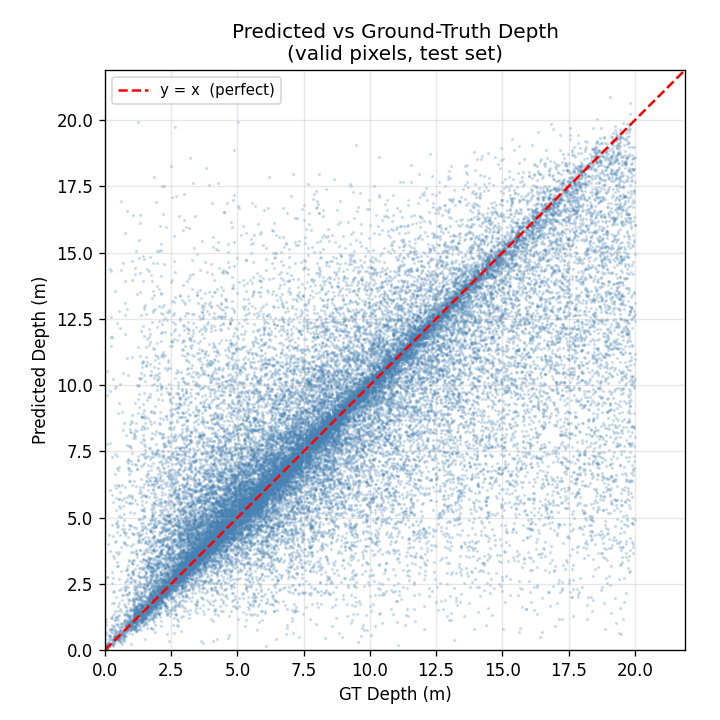
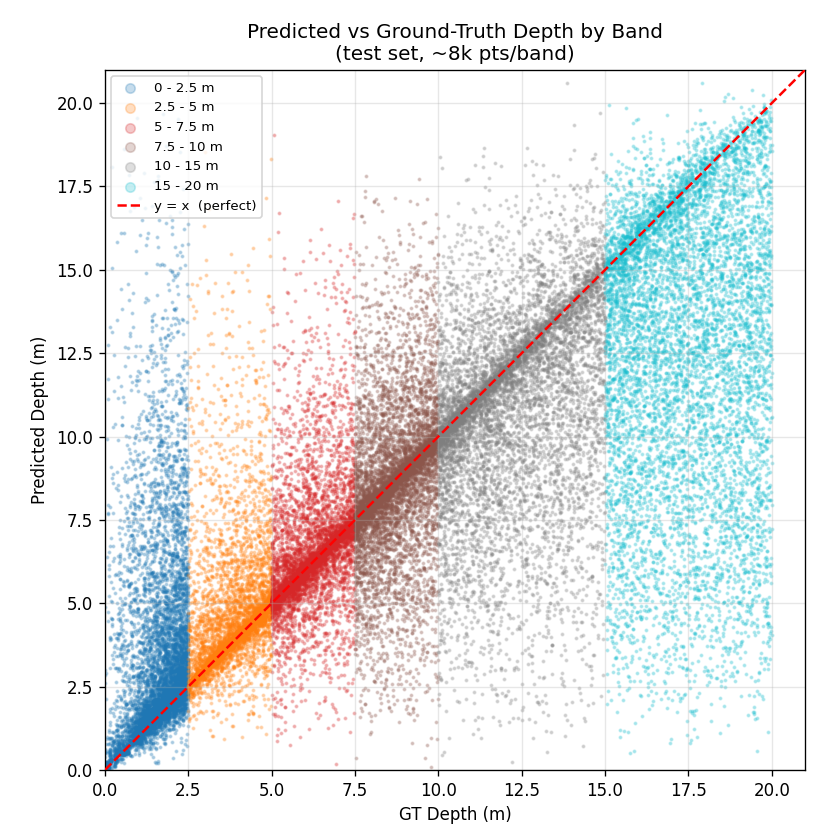
improve scatter plot, evaluate formatting, and fix end-of-training plots to use best.pth
- plot_scatter: add per-band coloured scatter (shared axes, 8k pts/band)
- evaluate.py: replace plain print with unicode box-drawing table
- train.py: reload best.pth before generating end-of-training scatter/histogram

diff --git a/perception/plot.py b/perception/plot.py
@@ -145,46 +145,104 @@ def plot_qualitative(model, test_loader, device, epoch, out_dir, n_samples=4, th
     plt.close(fig)
 
 
-def plot_scatter(model, test_loader, device, out_dir, thresh=0.99):
+def plot_scatter(model, test_loader, device, out_dir, thresh=0.99, bands=None):
     """
-    PLOT 3 — Scatter: predicted depth vs ground-truth depth (all valid pixels).
+    PLOT 3 — Scatter: predicted depth vs ground-truth depth.
+
+    If bands is None: single monochrome scatter (all valid pixels, capped at 50k).
+    If bands is provided (list of (label, lo, hi) in normalised units):
+      single scatter with each band coloured differently (8k pixels per band),
+      showing the full depth range on one axis so cross-band bias is visible.
 
     Perfect predictor → all points on red dashed y=x line.
-    Systematic bias:
-      Points above y=x → model over-estimates distance
-      Points below y=x → model under-estimates distance
-    Clustering of errors at specific depth ranges reveals where the model struggles.
-
-    Capped at 50 000 pixels for readability.
     """
     model.eval()
-    all_pred, all_gt = [], []
+
+    if bands is None:
+        # ── single overall scatter ──────────────────────────────────────────
+        all_pred, all_gt = [], []
+        with torch.no_grad():
+            for event, depth in test_loader:
+                event, depth = event.to(device), depth.to(device)
+                pred = model(event)
+                mask = (depth >= 0) & (depth < thresh)
+                all_pred.append(pred[mask].cpu().numpy() * 100.0)
+                all_gt.append(depth[mask].cpu().numpy()  * 100.0)
+
+        all_pred = np.concatenate(all_pred)
+        all_gt   = np.concatenate(all_gt)
+
+        if len(all_pred) > 50_000:
+            idx      = np.random.default_rng(0).choice(len(all_pred), 50_000, replace=False)
+            all_pred = all_pred[idx]
+            all_gt   = all_gt[idx]
+
+        fig, ax = plt.subplots(figsize=(6, 6))
+        ax.scatter(all_gt, all_pred, alpha=0.2, s=1, color='steelblue', rasterized=True)
+        lim = max(all_gt.max(), all_pred.max()) * 1.05
+        ax.plot([0, lim], [0, lim], 'r--', linewidth=1.5, label='y = x  (perfect)')
+        ax.set_xlim(0, lim)
+        ax.set_ylim(0, lim)
+        ax.set_xlabel('GT Depth (m)')
+        ax.set_ylabel('Predicted Depth (m)')
+        ax.set_title('Predicted vs Ground-Truth Depth\n(valid pixels, test set)')
+        ax.legend(fontsize=9)
+        ax.grid(True, alpha=0.3)
+        ax.set_aspect('equal')
+        fig.tight_layout()
+        fig.savefig(os.path.join(out_dir, 'scatter.png'), dpi=120)
+        plt.close(fig)
+        return
+
+    # ── multi-colour scatter: one colour per band, shared axes ─────────────
+    # Skip 'Overall' band to avoid double-counting on the plot
+    plot_bands = [(label, lo, hi) for label, lo, hi in bands if label != 'Overall']
+
+    band_pred = {label: [] for label, *_ in plot_bands}
+    band_gt   = {label: [] for label, *_ in plot_bands}
+
     with torch.no_grad():
         for event, depth in test_loader:
             event, depth = event.to(device), depth.to(device)
             pred = model(event)
-            mask = (depth >= 0) & (depth < thresh)
-            all_pred.append(pred[mask].cpu().numpy() * 100.0)
-            all_gt.append(depth[mask].cpu().numpy()  * 100.0)
+            for label, lo, hi in plot_bands:
+                mask = (depth >= lo) & (depth < hi)
+                band_pred[label].append(pred[mask].cpu().numpy() * 100.0)
+                band_gt[label].append(depth[mask].cpu().numpy()  * 100.0)
 
-    all_pred = np.concatenate(all_pred)
-    all_gt   = np.concatenate(all_gt)
+    for label in band_pred:
+        band_pred[label] = np.concatenate(band_pred[label]) if band_pred[label] else np.array([])
+        band_gt[label]   = np.concatenate(band_gt[label])   if band_gt[label]   else np.array([])
 
-    if len(all_pred) > 50_000:
-        idx      = np.random.default_rng(0).choice(len(all_pred), 50_000, replace=False)
-        all_pred = all_pred[idx]
-        all_gt   = all_gt[idx]
+    # Subsample each band independently so dense bands don't dominate
+    rng = np.random.default_rng(0)
+    PER_BAND = 8_000
+    for label in band_pred:
+        n = len(band_pred[label])
+        if n > PER_BAND:
+            idx = rng.choice(n, PER_BAND, replace=False)
+            band_pred[label] = band_pred[label][idx]
+            band_gt[label]   = band_gt[label][idx]
 
-    fig, ax = plt.subplots(figsize=(6, 6))
-    ax.scatter(all_gt, all_pred, alpha=0.2, s=1, color='steelblue', rasterized=True)
-    lim = max(all_gt.max(), all_pred.max()) * 1.05
-    ax.plot([0, lim], [0, lim], 'r--', linewidth=1.5, label='y = x  (perfect)')
+    colors = plt.cm.tab10(np.linspace(0, 0.9, len(plot_bands)))
+    lim = thresh * 100.0 * 1.05
+
+    fig, ax = plt.subplots(figsize=(7, 7))
+    for i, (label, lo, hi) in enumerate(plot_bands):
+        gts   = band_gt[label]
+        preds = band_pred[label]
+        if len(gts) == 0:
+            continue
+        ax.scatter(gts, preds, alpha=0.25, s=2, color=colors[i],
+                   label=label, rasterized=True)
+
+    ax.plot([0, lim], [0, lim], 'r--', linewidth=1.5, label='y = x  (perfect)', zorder=5)
     ax.set_xlim(0, lim)
     ax.set_ylim(0, lim)
     ax.set_xlabel('GT Depth (m)')
     ax.set_ylabel('Predicted Depth (m)')
-    ax.set_title('Predicted vs Ground-Truth Depth\n(valid pixels, test set)')
-    ax.legend(fontsize=9)
+    ax.set_title('Predicted vs Ground-Truth Depth by Band\n(test set, ~8k pts/band)')
+    ax.legend(fontsize=8, markerscale=4)
     ax.grid(True, alpha=0.3)
     ax.set_aspect('equal')
     fig.tight_layout()

diff --git a/perception/evaluate.py b/perception/evaluate.py
@@ -19,9 +19,12 @@ DEVICE            = 'cuda' if torch.cuda.is_available() else 'cpu'
 
 # Depth bands in normalised linear units (value × 100 = metres)
 BANDS = [
-    ('0 - 5 m',   0.0,  0.05),
-    ('5 - 10 m',  0.05, 0.10),
-    ('10 - 20 m', 0.10, 0.20),
+    ('0 - 2.5 m',   0.0,  0.025),
+    ('2.5 - 5 m',  0.025, 0.05),
+    ('5 - 7.5 m', 0.05, 0.075),
+    ('7.5 m - 10 m', 0.075, 0.10),
+    ('10 - 15 m', 0.1, 0.15),
+    ('15 - 20 m', 0.15, 0.20),
     ('Overall',   0.0,  DEPTH_THRESH),
 ]
 
@@ -73,22 +76,31 @@ def evaluate():
                 acc[label]['n']       += n
 
     # ── Print results ─────────────────────────────
-    print(f"{'Depth Band':<14} {'Pixels':>10}  {'MAE (m)':>9}  {'RMSE (m)':>9}  {'delta1':>8}")
-    print('─' * 58)
+    L, P, M, R, D = 14, 12, 9, 9, 8  # column content widths
+
+    def _sep(l='├', m='┼', r='┤', f='─'):
+        return l + f*(L+2) + m + f*(P+2) + m + f*(M+2) + m + f*(R+2) + m + f*(D+2) + r
+
+    def _row(lbl, pix, mae, rmse, d1):
+        return f'│ {lbl:<{L}} │ {pix:>{P}} │ {mae:>{M}} │ {rmse:>{R}} │ {d1:>{D}} │'
+
+    print()
+    print(_sep('┌', '┬', '┐'))
+    print(_row('Depth Band', 'Pixels', 'MAE (m)', 'RMSE (m)', 'delta1'))
+    print(_sep())
     for label, *_ in BANDS:
         a = acc[label]
         n = a['n']
+        if label == 'Overall':
+            print(_sep())
         if n == 0:
-            print(f"{label:<14} {'0':>10}  {'N/A':>9}  {'N/A':>9}  {'N/A':>8}")
+            print(_row(label, '0', 'N/A', 'N/A', 'N/A'))
             continue
         mae    = a['sum_mae'] / n
         rmse   = (a['sum_sq']  / n) ** 0.5
         delta1 = a['sum_d1']  / n
-        sep = '═' * 58 if label == 'Overall' else ''
-        if sep:
-            print(sep)
-        print(f"{label:<14} {n:>10,}  {mae:>9.3f}  {rmse:>9.3f}  {delta1:>8.3f}")
-
+        print(_row(label, f'{n:,}', f'{mae:.3f}', f'{rmse:.3f}', f'{delta1:.3f}'))
+    print(_sep('└', '┴', '┘'))
     print()
 
 

diff --git a/perception/train.py b/perception/train.py
@@ -255,11 +255,25 @@ def run():
         else:
             print(f'Epoch {epoch}/{EPOCHS}  train={train_loss:.6f}')
 
-    # ── End-of-training plots ─────────────────
+    # ── End-of-training plots (reload best checkpoint) ────────────────────
     end = time.time()
     print("Generating final diagnostic plots …")
-    plot_scatter(model, test_loader, DEVICE, PLOTS_DIR, thresh=DEPTH_THRESH)
-    plot_error_histogram(model, test_loader, DEVICE, PLOTS_DIR, thresh=DEPTH_THRESH)
+    best_ckpt_path = os.path.join(CKPT_DIR, 'best.pth')
+    best_ckpt = torch.load(best_ckpt_path, map_location=DEVICE)
+    plot_model = OrigUNet().to(DEVICE)
+    plot_model.load_state_dict(best_ckpt['model'])
+    print(f"  (using best.pth — epoch={best_ckpt.get('epoch','?')}, val_loss={best_ckpt.get('val_loss', '?'):.6f})")
+    scatter_bands = [
+        ('0 - 2.5 m',   0.0,   0.025),
+        ('2.5 - 5 m',   0.025, 0.05),
+        ('5 - 7.5 m',   0.05,  0.075),
+        ('7.5 - 10 m',  0.075, 0.10),
+        ('10 - 15 m',   0.1,   0.15),
+        ('15 - 20 m',   0.15,  DEPTH_THRESH),
+        ('Overall',     0.0,   DEPTH_THRESH),
+    ]
+    plot_scatter(plot_model, test_loader, DEVICE, PLOTS_DIR, thresh=DEPTH_THRESH, bands=scatter_bands)
+    plot_error_histogram(plot_model, test_loader, DEVICE, PLOTS_DIR, thresh=DEPTH_THRESH)
 
     # Save final checkpoint
     state = model.module.state_dict() if isinstance(model, torch.nn.DataParallel) else model.state_dict()
